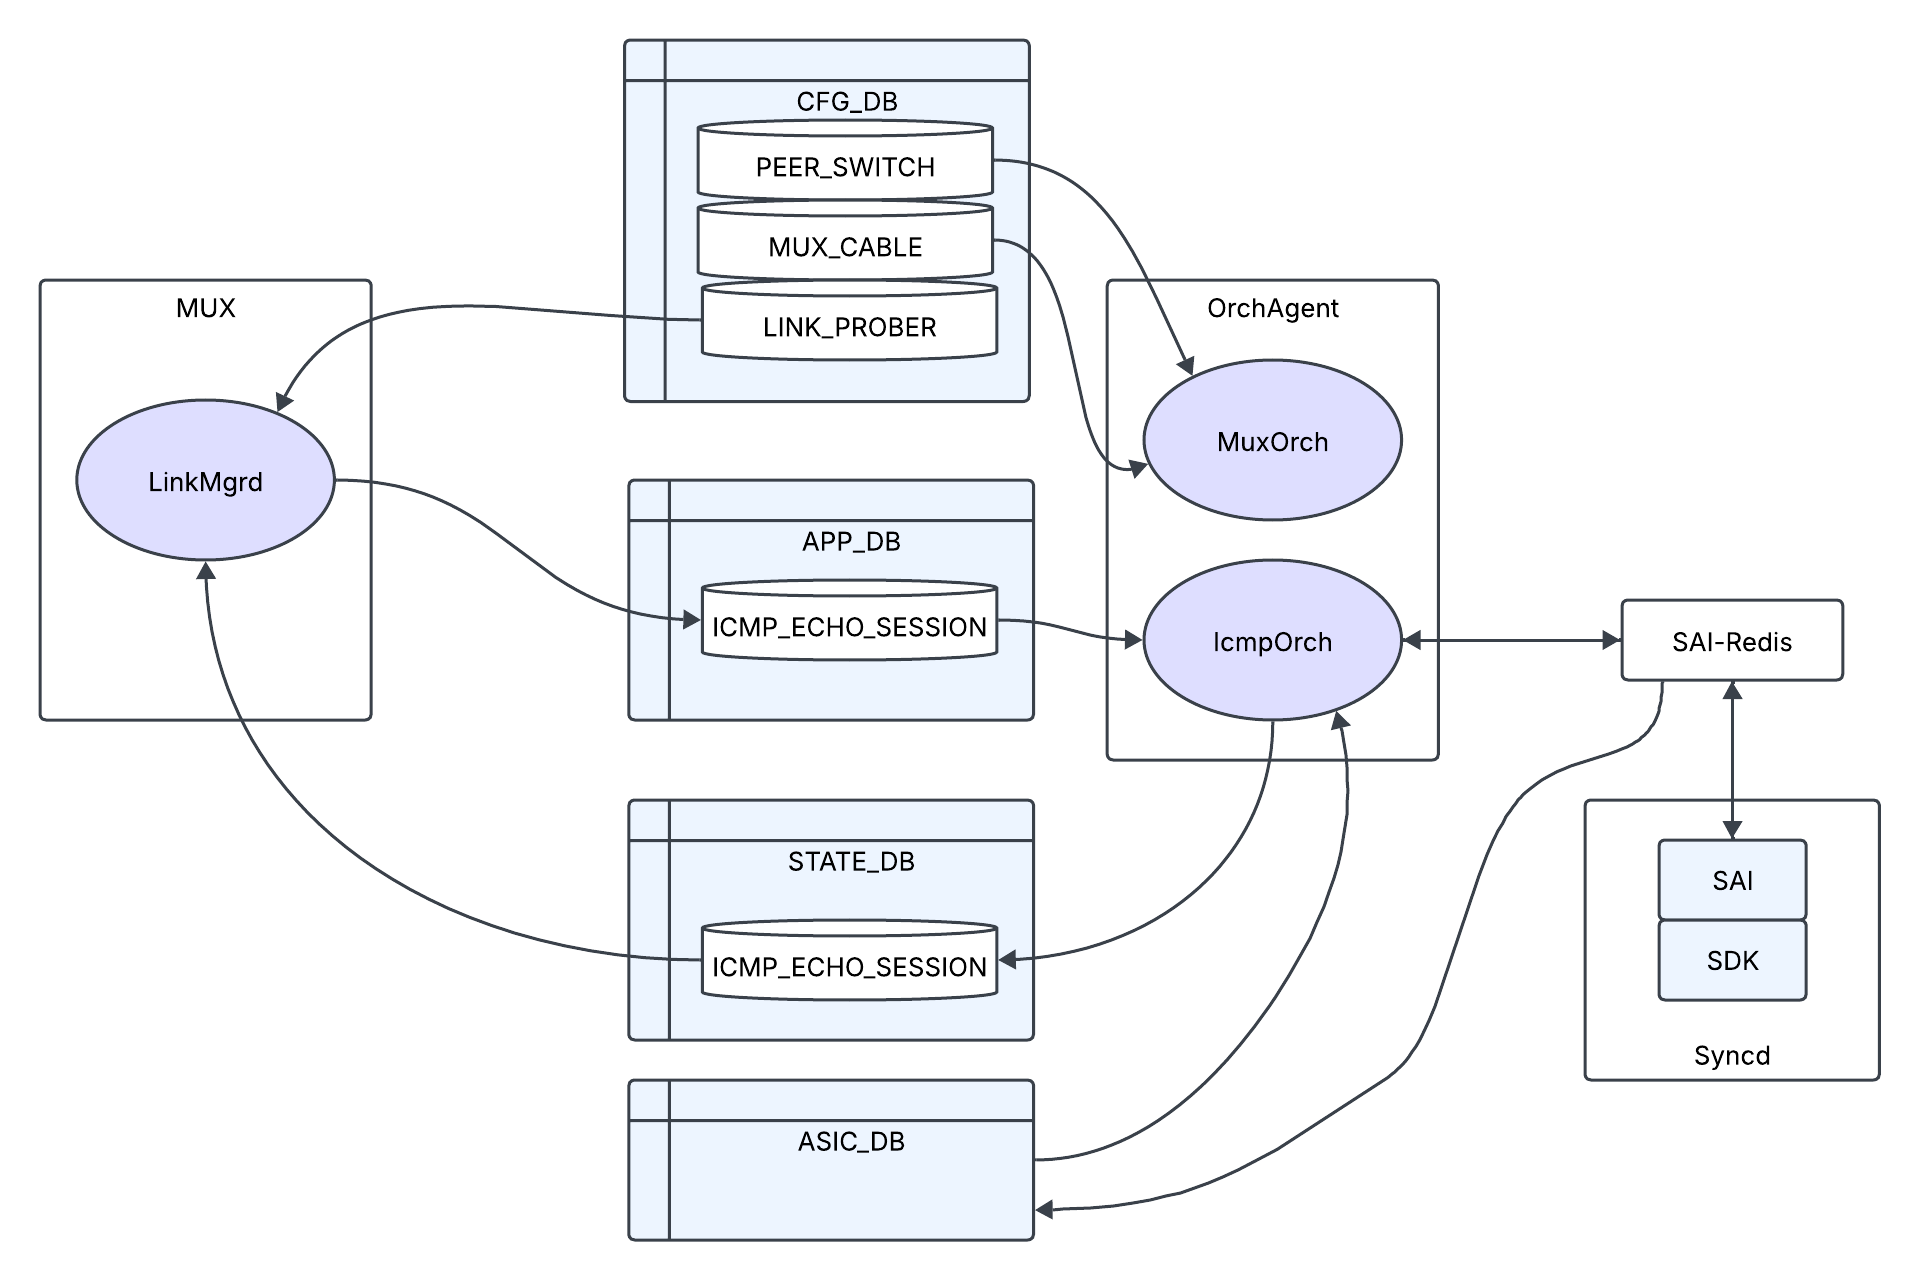
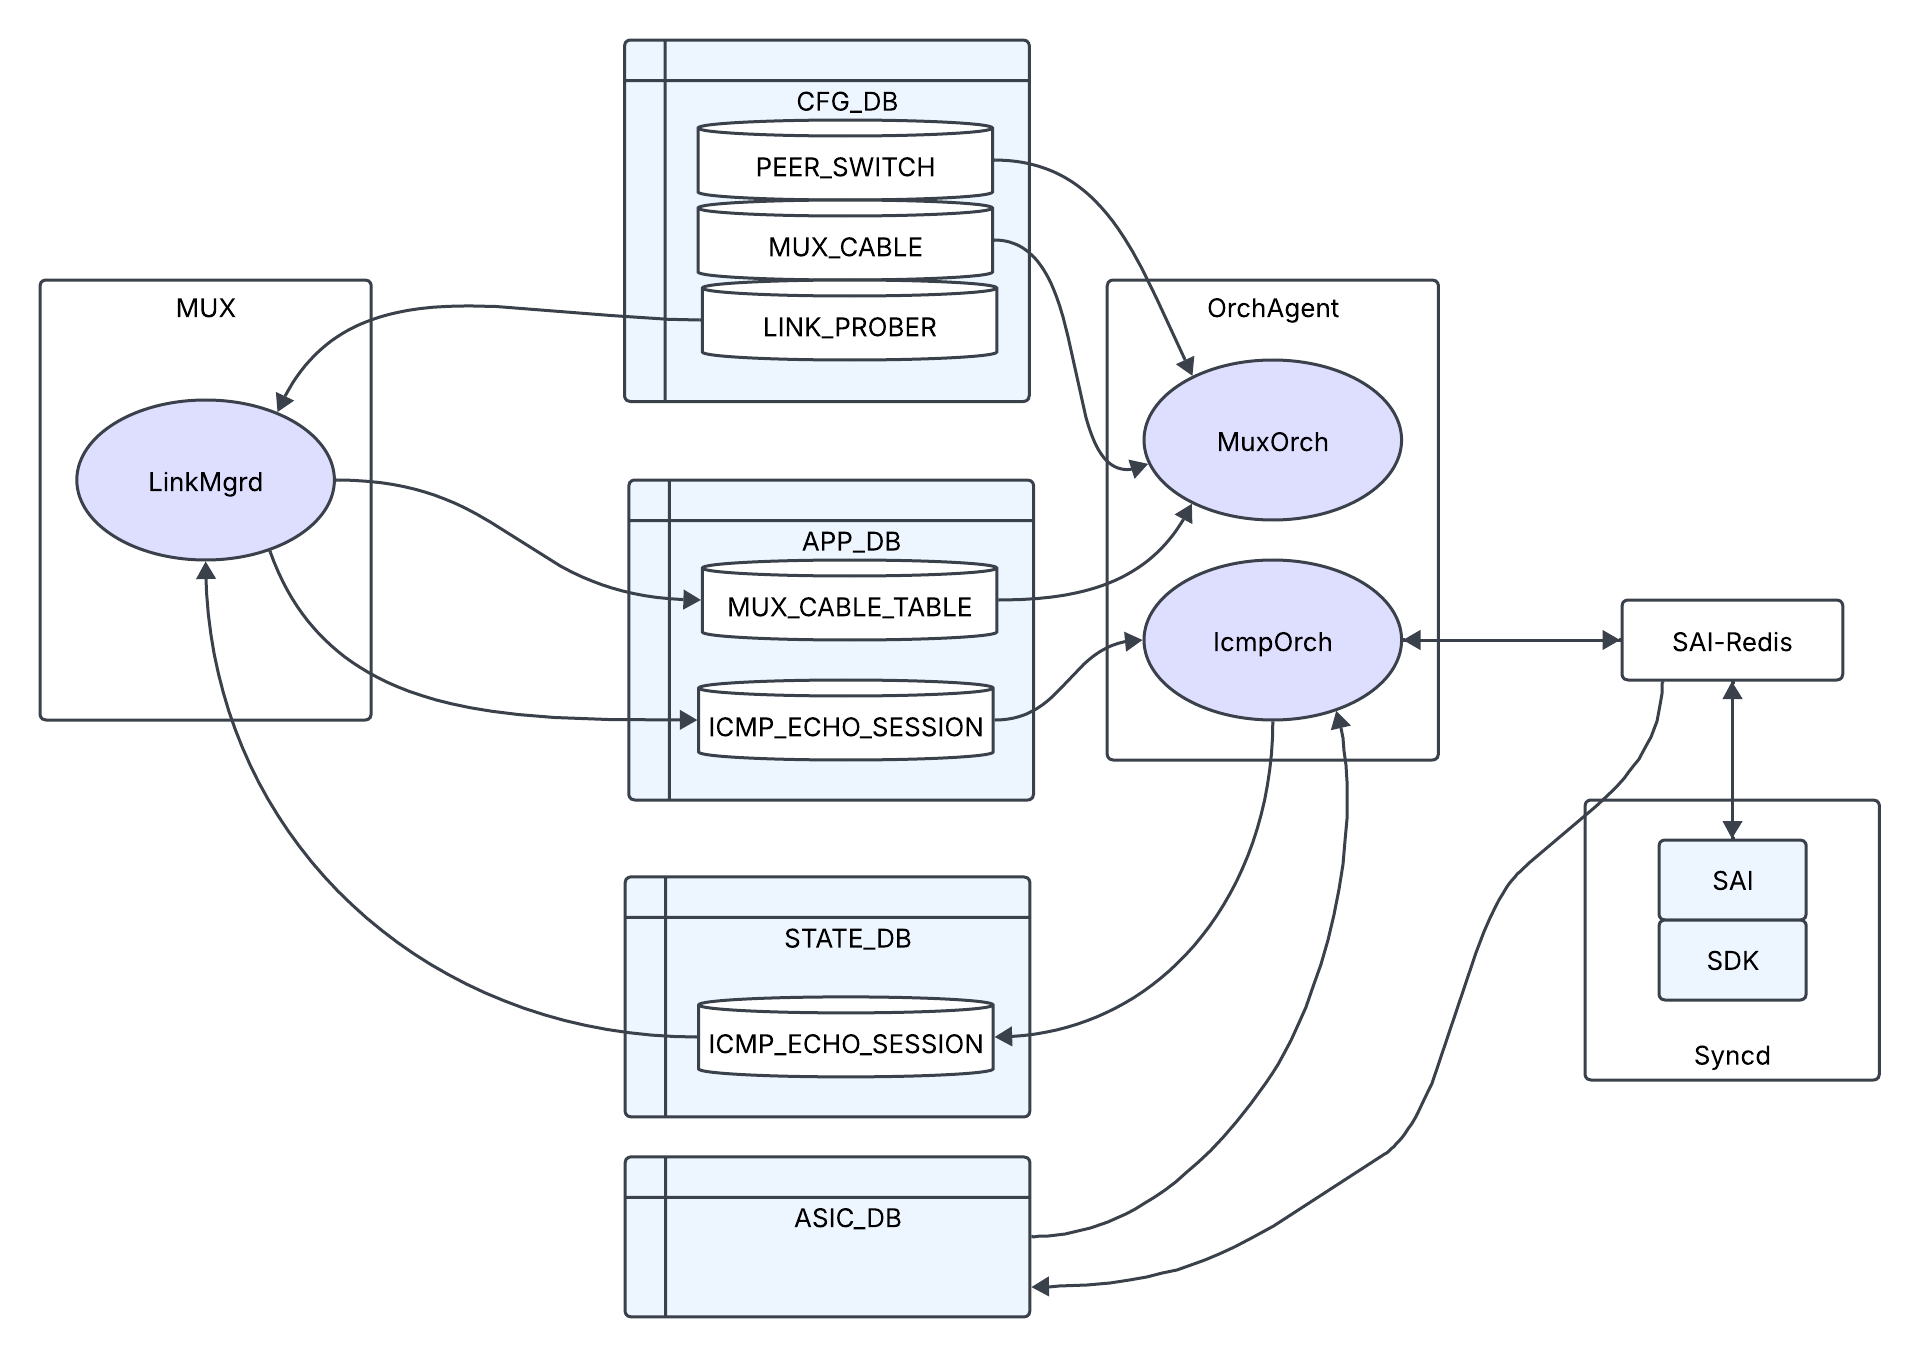
Addressed some review comments

diff --git a/doc/dualtor/ICMP_Hardware_Offload_and_Protecion.md b/doc/dualtor/ICMP_Hardware_Offload_and_Protecion.md
@@ -29,7 +29,8 @@ This document describes high level design details of SONiC's ICMP Hardware Offlo
       - [Session GUID handling](#session-guid-handling)
       - [Peer session handling](#peer-session-handling)
       - [Timer considerations](#timer-considerations)
-      - [Link State transition](#link-state-transition)
+      - [Link Prober State transitions](#link-prober-state-transitions)
+      - [TLV generation considerations](#tlv-generation-considerations)
     - [Orchagent](#orchagent)
       - [IcmpOrch](#icmporch)
       - [MuxOrch](#muxorch)
@@ -41,7 +42,6 @@ This document describes high level design details of SONiC's ICMP Hardware Offlo
   - [State-DB](#state-db)
 - [Command Line](#command-line)
 - [Limitations](#limitations)
-- [Warm Reboot Support](#warm-reboot-support)
 - [Testing](#testing)
 
 <!-- /code_chunk_output -->
@@ -62,17 +62,22 @@ Following diagram shows the cluster topology of Dual-ToR architecture for refere
 ### Requirement
 Current link state detection time with software based ICMP sessions is in the order of 200-400 milliseconds. Requirement for ICMP Hardware Offload is to bring this down to < 10 milliseconds.
 
-Currently switching time after link state change is detected is around 25-50 milliseconds. Note this depends on route scale. Requirement for FRR protection switching using Nexthop Protection Group is to keep it consistently below 25 milliseconds irrespective of the route scale.
+Currently switching time after link state change is detected, is around 25-50 milliseconds. Note this depends on route scale. Requirement for FRR protection switching using Nexthop Protection Group is to keep it consistent irrespective of the route scale.
 
 ### High Level Component and Requirements
 #### LinkMgrd Requirements
-LinkMgrd is the central component that runs in MUX docker and is responsible for managing ICMP echo sessions and link state. Link prober sub-component in Linkmgrd is responsible for the ICMP echo sessions. 
+LinkMgrd is the central component that runs in MUX docker and is responsible for managing ICMP echo sessions and link state. Link prober sub-component in Linkmgrd is responsible for the ICMP echo sessions.
 * Requirements
    * Add / Remove Hardware ICMP echo session in App DB based on mux cable and link prober config entries.
    * Consume ICMP echo session state from State DB produced by Orchagent and update mux state.
+   * Create two hardware sessions per mux port / interface one for self and another one to monitor the peer replies.
+   * Generate and handle ICMP packets with TLVs in software.
+
+Following diagram shows the hardware ICMP echo sessions between the TORs and Server.
+<div align="center"> <img src=image/hw_icmp_echo_sessions.png width=600 /> </div>
 
 #### Orchagent Requirement
-Currently orchagent creates tunnel at initialization and add / removes routes to forward traffic to peer ToR via a IpinIP tunnel when linkmgrd switches state to standby / active. 
+Currently orchagent creates tunnel at initialization and add / removes routes to forward traffic to peer ToR via a IpinIP tunnel when linkmgrd switches state to standby / active.
 * Requirements
    * Create / Remove hardware ICMP echo sessions by consuming entries in App DB.
    * Consume ICMP echo session notification from SAI and update session state in State DB.
@@ -108,14 +113,17 @@ Hardware Link prober needs to know the peer session GUID to set the peer session
 * **ICMP echo session tx_interval setting:**
     * tx_interval = probing interval
     * Positive probing timer value = probing interval x positive signal count.
-    * LinkMgrd will start positive probing timer after receiving the first UP state notification for a session from State DB and move the link state from unknown to wait state. After this when positive timer expires it will transition the Link from wait state to Active state.
+    * LinkMgrd will start positive probing timer after receiving the first UP state notification for a session from State DB and link prober will conitnue to remain in unknown state until the expiry of this positive timer at which it will transition the Link prober to Active state.
 * **ICMP echo session rx_interval setting:**
     * rx_interval = probing interval x negative signal count.
-    * LinkMgrd will directly transition the link to unknown state avoiding the wait state as opposed to what was done in case of software probing.
+    * LinkMgrd will directly transition the link prober to unknown state avoiding the negative probing timer as opposed to what was done in case of software probing.
 
-#### Link State transitions
-Following table shows the mux state transitions based on event when link_prober mode is set as hardware and icmp echo session is offloaded to NPU.
+#### Link Prober State transitions
+Following table shows the link prober state transitions based on event when link_prober mode is set as hardware and icmp echo session is offloaded to NPU.
 <div align="center"> <img src=image/link_state_transition.png width=600 /> </div>
+
+#### TLV generation considerations
+ICMP packets with TLVs will not be generated by the hardware/NPU and LinkMgrd will generate these packets in software using the software cookie as currently done by software prober. Using the software cookie for TLV generation will make sure peer NPU will not consume these ICMP packets in hardware and LinkMgrd running on peer ToR will be able to receive and handle these TLV packets.
 
 ### Orchagent
 #### IcmpOrch
@@ -139,23 +147,23 @@ Vrf-name : Interface Alias : Session GUID : Session Type
 * Interface Alias 'default' will set the SAI atttribute hw_lookup to true and NPU will perform forwarding lookup basd on dst_ip to determine the outgoing interface.
 
 #### MuxOrch
-This feature introduces a new config knob **switching_mode** to differentiate between normal software based switching and FRR protection switching that uses next hop protection group to switch traffic. MuxOrch will create next hop protection group for each mux port and maintain a mapping of mux port and next hop protection group based on this config knob.
+This feature introduces a new config knob **switching_mode** to differentiate between normal software based switching and FRR protection switching that will use next hop protection group to switch traffic. MuxOrch will create next hop protection group for each mux port and maintain a mapping of mux port and next hop protection group based on this config knob.
 MuxOrch creates the IPinIP tunnel based on the peer_switch configuration. Currently IPinIP tunnel destination next hop is created when mux state changes to standby however with frr_protection switching_mode it will create the IPinIP tunnel destination next hop in advance and add this as the backup member of the next hop protection group.
 
 #### MuxCableOrch
-MuxCableOrch in orchagent is the component responsible for consuming mux state from App DB APP_MUX_CABLE_TABLE_NAME and switching traffic. Currently this component updates all routes whenever a traffic switchover is needed. When **switching_mode** will be set to **frr-protection** in MuxOrch, MuxCableOrch will program the routes with the nexthop protection group as destination. With frr-protection mode in the event of traffic switching, SONiC will just toggle the members of nexthop protection group and will no longer need to reprogram all routes. 
+MuxCableOrch in orchagent is the component responsible for consuming mux state from App DB MUX_CABLE_TABLE and switching traffic. Currently this component updates all routes whenever a traffic switchover is needed. When **switching_mode** will be set to **frr-protection** in MuxOrch, MuxCableOrch will program the routes with the nexthop protection group as destination. With frr-protection mode in the event of traffic switching, SONiC will just toggle the members of nexthop protection group and will no longer need to reprogram all routes.
 
 Following diagram shows component level flow for traffic switching.
 <div align="center"> <img src=image/traffic_switching_flow.png width=700 /> </div>
 
 #### MuxNbrHandler
-Currently when FDB changes or neighbor changes, neighbors are updated based on the state of mux. With frr-protection neighbor updates will always disable the original neighbor and create a route using the prefix from the neighbor pointing to the protection next hop group.
+Currently when FDB changes or neighbor changes, neighbors are updated based on the state of mux. With frr-protection neighbor destination will change based on toggling of protection group.
 
 ### DB Schema Changes
 
 #### Config-DB
 Two new knobs in MUX_CABLE config table to support these features:
-  * **link_prober_type** 
+  * **link_prober_type**
     * software : create software based icmp echo session. This is default value.
     * hardware : create hardware based icmp echo session.
   * **switching_mode**
@@ -179,7 +187,7 @@ Two new knobs in MUX_CABLE config table to support these features:
 ```
 
 #### App-DB
-A new table, named **ICMP_ECHO_SESSION_TABLE**, will be introduced in the App DB to create hardware based icmp echo sessions. Entries in this table will be produced by LinkMgrd and consumed by Orchagent. 
+A new table, named **ICMP_ECHO_SESSION_TABLE**, will be introduced in the App DB to create hardware based icmp echo sessions. Entries in this table will be produced by LinkMgrd and consumed by Orchagent.
 
 ```
 {
@@ -233,8 +241,8 @@ A new table **ICMP_ECHO_SESSION_TABLE** will be added in the State DB. Entries i
   * `state`: mux mode configuration
     * `auto`: enable failover logics for both self and peer
     * `manual`: disable failover logics for both self and peer
-    * `active`: if current mux status is not `active`, toggle the mux to `active` once, then work in `manual` mode
-    * `standby`: if current mux status is not `standby`, toggle the mux `standby` once, then work in `manual` mode
+    * `active`: if current mux status is not `active`, toggle the mux to `active` once
+    * `standby`: if current mux status is not `standby`, toggle the mux `standby` once
     * `detach`: enable failover logics only for self
   * `ipv4`: mux server ipv4 address
   * `ipv6`: mux server ipv6 address
@@ -258,7 +266,7 @@ $ show mux config
 SWITCH_NAME        PEER_TOR
 -----------------  ----------
 lab-switch-2  10.1.0.33
-port        state    ipv4             ipv6               cable_type     soc_ipv4         link_prober_type  switching_mode    
+port        state    ipv4             ipv6               cable_type     soc_ipv4         link_prober_type  switching_mode
 ----------  -------  ---------------  -----------------  -------------  ---------------  ----------------  --------------
 Ethernet4   auto     192.168.0.2/32   fc02:1000::2/128   active-active  192.168.0.3/32   hardware          frr-protection
 Ethernet8   auto     192.168.0.4/32   fc02:1000::4/128   active-active  192.168.0.5/32   hardware          frr-protection
@@ -269,9 +277,6 @@ Ethernet8   auto     192.168.0.4/32   fc02:1000::4/128   active-active  192.168.
 ## Limitations
 
 - Software and Hardware link prober sessions are not supported together.
-
-## Warm Reboot Support
-TBD
 
 ## Testing
 - Unit tests for LinkMgrd
